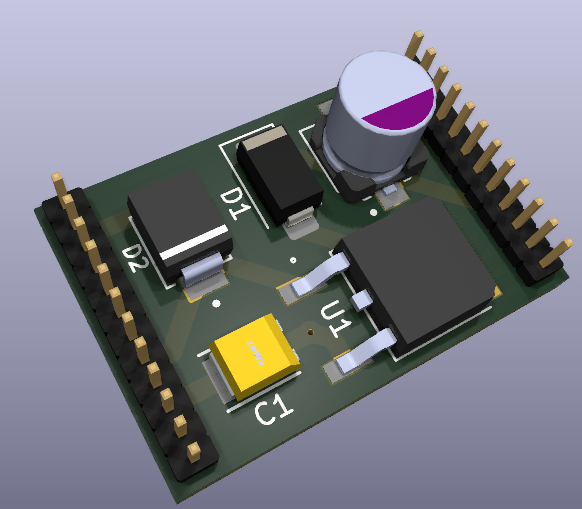
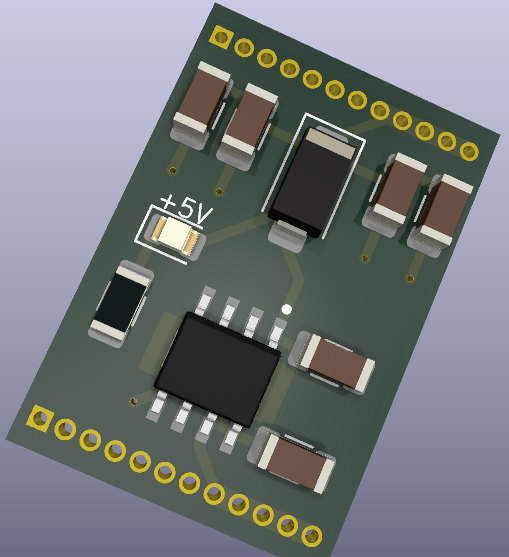
Update readme

diff --git a/README.md b/README.md
@@ -2,12 +2,17 @@
 
 ![KiCad 3D render](assets/3d-render.png)
 
-This is a power module designed for Project Nanoka. It's based on a Low-Dropout 5V regulator because of its noise-filtering properties, which is important for audio.
+This is the second revision of a power module designed for Project Nanoka. It's based on an automotive grade low-dropout regulator (TPS7B8650). The initial version was based on a non-automotive grade regulator, which is fine when not used in a car's harsh electrical environment. But this project was intended to be used in a car, so I had to design something better. 
 
-It has a very basic circuit. A simple tantalum filtering capacitor, a TVS diode for clamping voltage spikes, a regular rectifying diode for backflow protection, a buffer capacitor at the output, and of course, the regulator itself.
 
-This is not user friendly in anyway, and it's intended for my own personal use only. If you do decide to reproduce it, you do so **at your own responsibility**.
+The TPS7B8650 is on the expensive side, but it has many necessary measures built-in, such as:
+1. Protection against load dumps and alternator spikes
+2. Excellent response to transients on the input
+3. minimal output overshoot from dropout
 
-Theoretically, when used with a heatsink, this module can output one amps of five volts, so 5W total. The regulator is capable of one and a half amps but the rectifying diode is rated for 1 amp, so this is the limit.
+With these built-in, it's much simpler for me (the hobbyist) to design something that won't catch fire. At minimum, the fixed-voltage version only needs two capacitors to function. But this board also includes a backflow protection diode and four buffer capacitors to keep the device it powers on if there are momentary dropouts. 
+
+I have yet to build and test this, so whether it works and performs well remains to be seen. That said, this is probably useful only to me, but if you do decide to reproduce it, *all responsibility is yours*!
+
 
 
